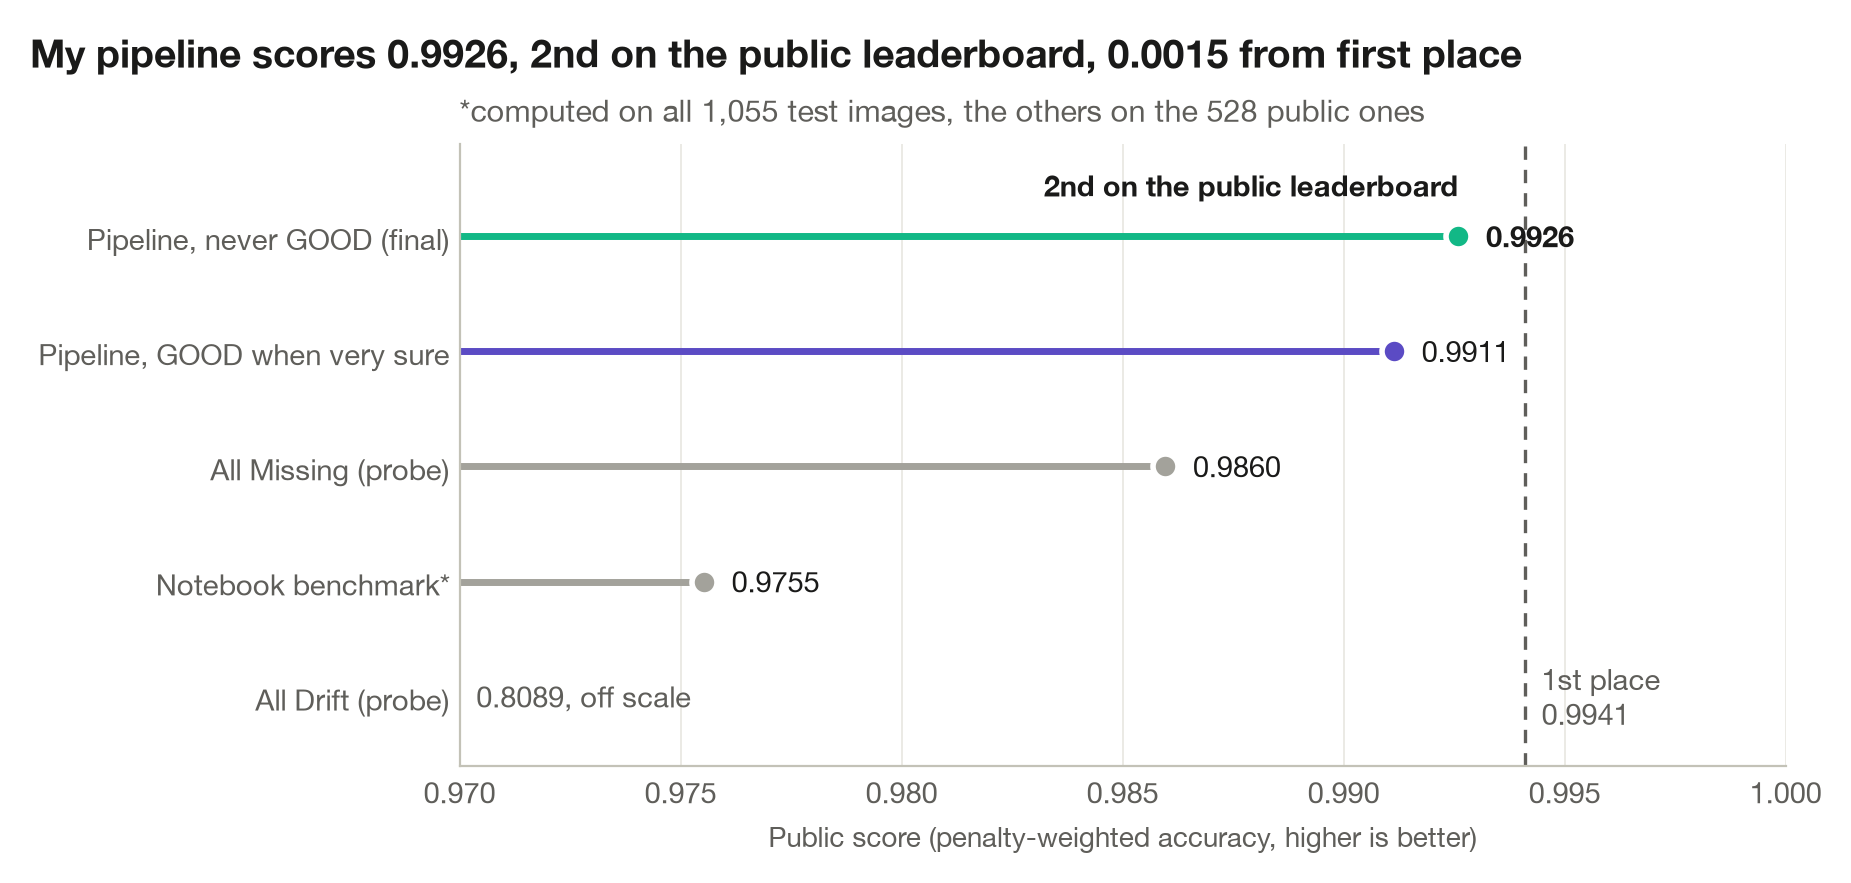
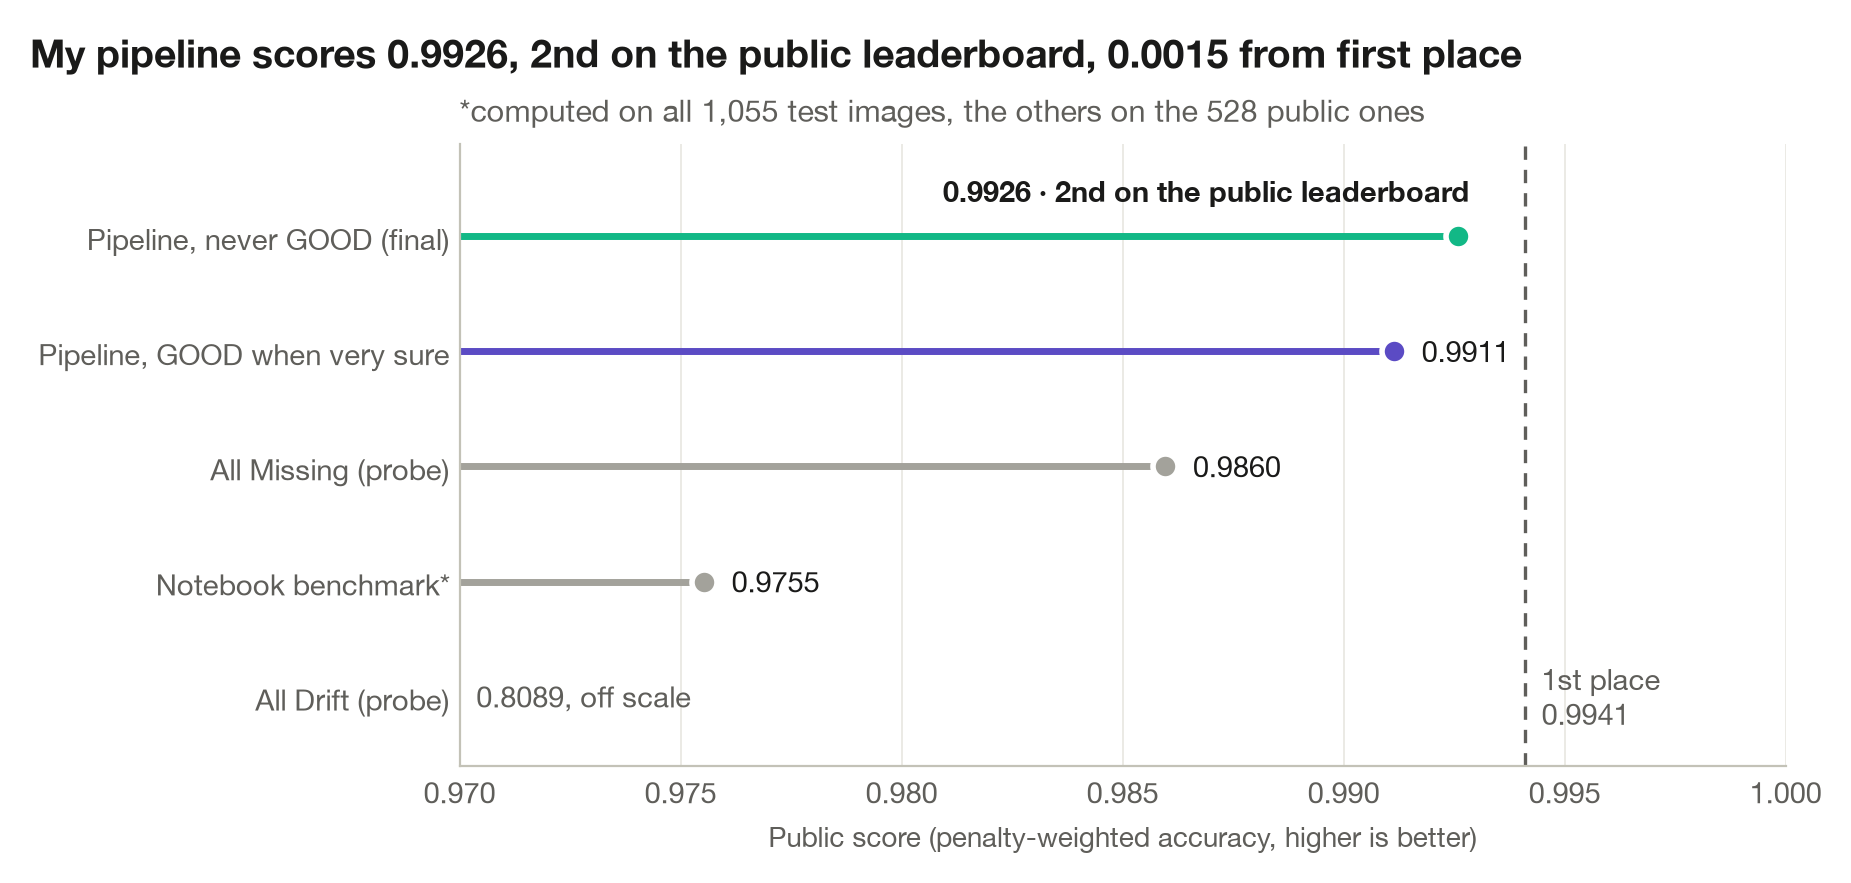
docs: keep the final score label clear of the first-place line (#5)
The final score and the leaderboard rank share one label above the point, so the first-place line crosses no text. Only figure a is regenerated.

Changed region(s): [[0.4927, 0.1835, 0.8006, 0.2446], [0.8006, 0.2446, 0.8622, 0.2752]]

diff --git a/scripts/make_figures.py b/scripts/make_figures.py
@@ -82,13 +82,24 @@ def score_ladder() -> None:
             )
             continue
         ax.plot(shown, y, "o", ms=9, color=PALETTE[role], mec="white", mew=2)
+        if role == "final":
+            # above the point, ending at it: nothing to its right, so first place never crosses it
+            ax.annotate(
+                f"{score:.4f} · {_ordinal(board['rank'])} on the public leaderboard",
+                (shown, y),
+                xytext=(4, 10),
+                textcoords="offset points",
+                ha="right",
+                va="bottom",
+                fontweight="bold",
+            )
+            continue
         ax.annotate(
             f"{score:.4f}",
             (shown, y),
             xytext=(10, 0),
             textcoords="offset points",
             va="center",
-            fontweight="bold" if role == "final" else "normal",
         )
     first = board["first_place_score"]
     ax.axvline(first, color=PALETTE["ink_secondary"], ls=(0, (4, 3)), lw=1.2)
@@ -100,16 +111,6 @@ def score_ladder() -> None:
         ha="left",
         va="center",
         color=PALETTE["ink_secondary"],
-    )
-    ax.annotate(
-        f"{_ordinal(board['rank'])} on the public leaderboard",
-        (pipeline["no_good"], len(rows) - 1),
-        xytext=(0, 12),
-        textcoords="offset points",
-        ha="right",
-        va="bottom",
-        color=PALETTE["ink"],
-        fontweight="bold",
     )
     ax.set_yticks(range(len(rows)), [name for name, _, _ in rows])
     ax.set_xlim(left, 1.0)
